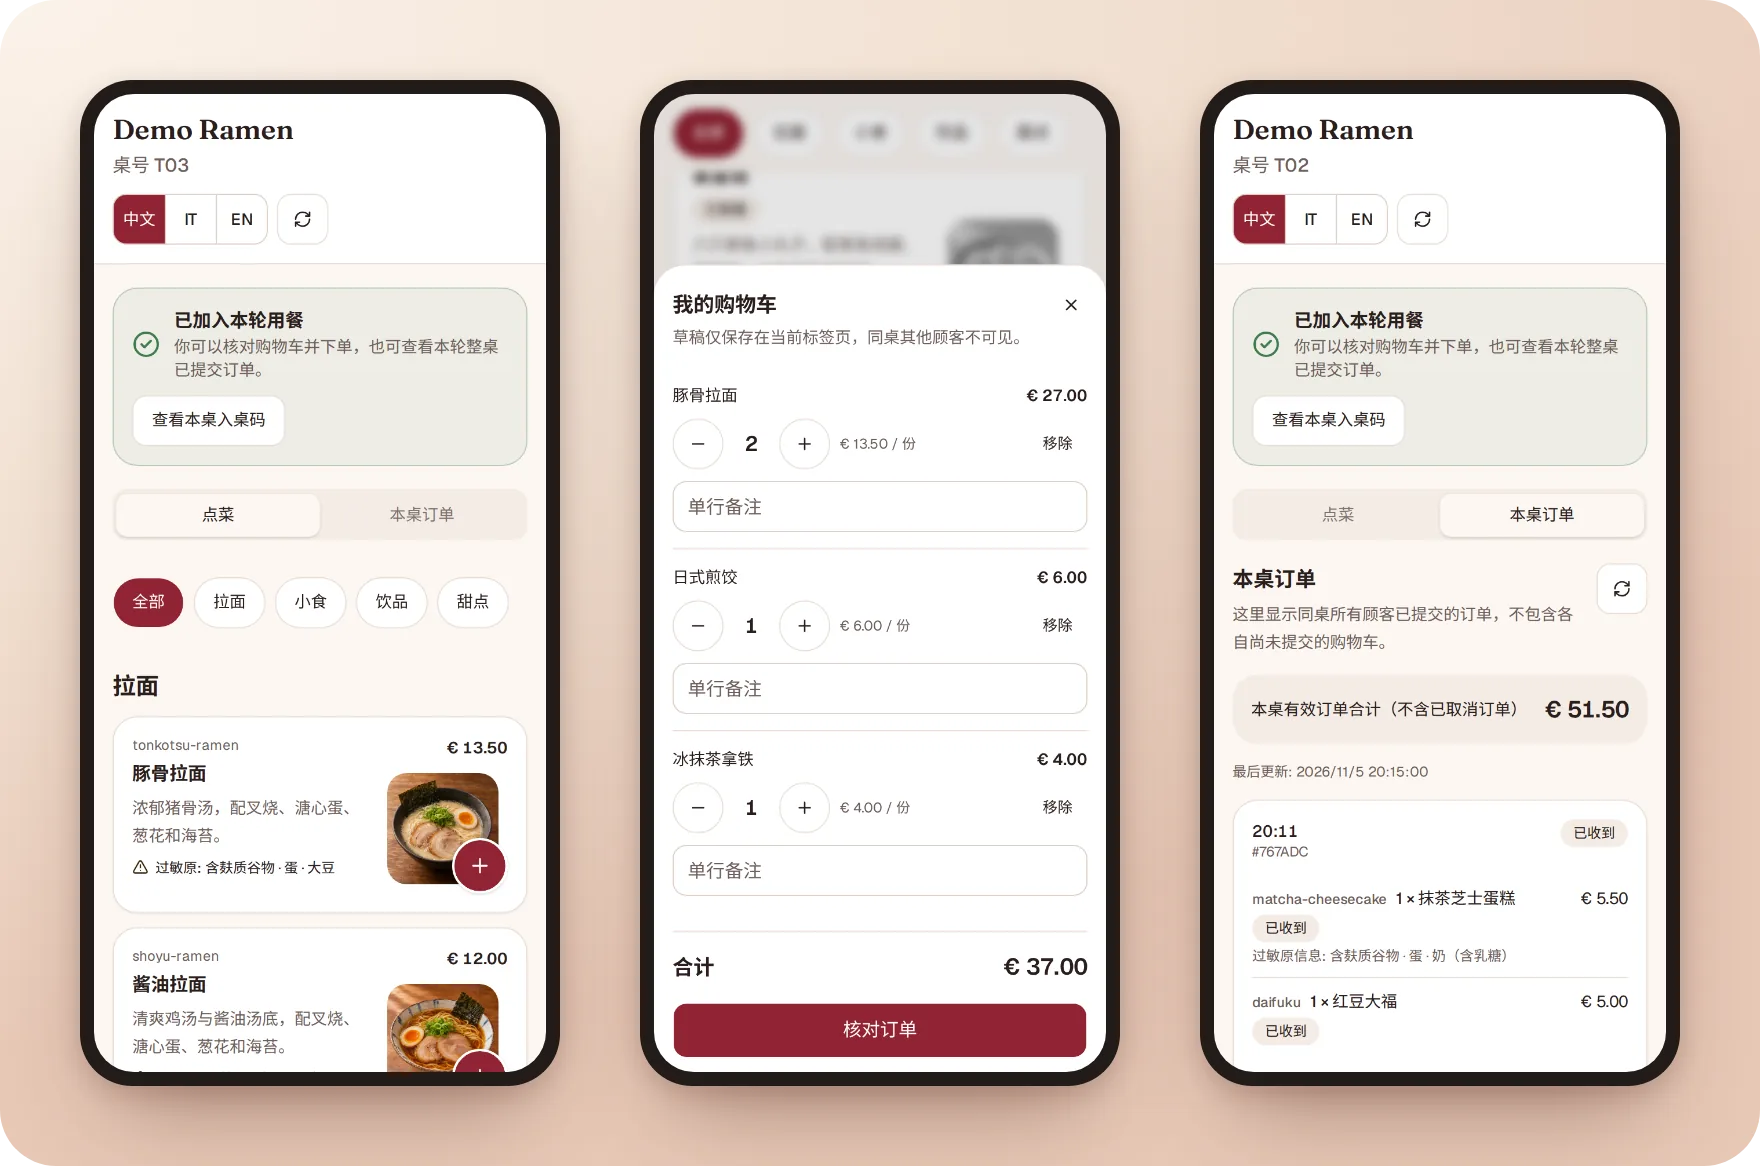
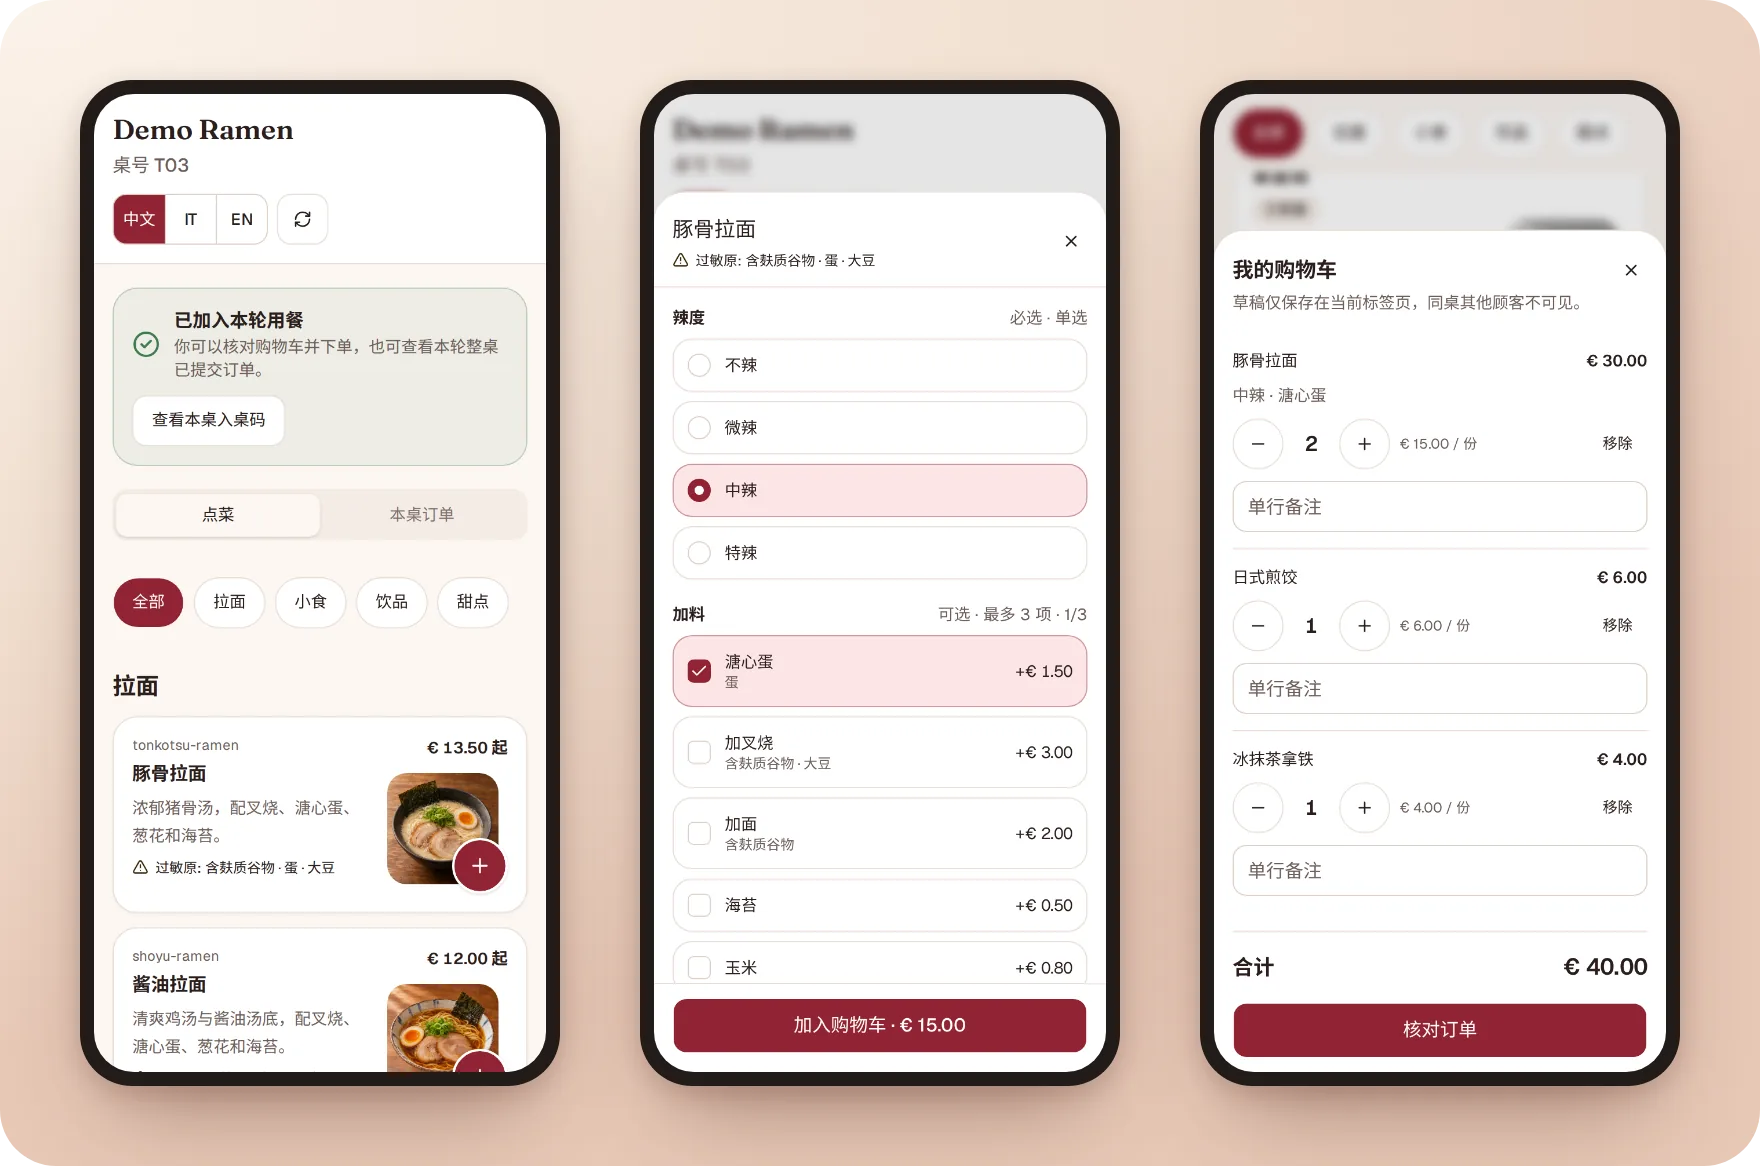
docs: readme images and captions with menu options

diff --git a/README.it.md b/README.it.md
@@ -42,9 +42,9 @@ cucina, pass e conto.
 
 ![Una visita completa: apertura del tavolo, ordine dal telefono, cucina, pass e conto](docs/images/walkthrough-it.webp)
 
-**Clienti**: il menu con foto e allergeni, il carrello e gli ordini del tavolo.
+**Clienti**: il menu con foto e allergeni, le opzioni di un piatto (qui piccantezza e aggiunte) e il carrello.
 
-![Menu, carrello e ordini del tavolo su un telefono](docs/images/guest-it.webp)
+![Menu, opzioni del piatto e carrello su un telefono](docs/images/guest-it.webp)
 
 **Staff e titolare**: Sala, Pass, Conto e modifica di un piatto su un tablet.
 

diff --git a/README.md b/README.md
@@ -41,9 +41,9 @@ kitchen, the pass and the bill.
 
 ![A whole visit: open the table, order from the phone, kitchen, pass and bill](docs/images/walkthrough-en.webp)
 
-**Guests**: the menu with photos and allergens, the cart, and the table's orders.
+**Guests**: the menu with photos and allergens, the options of a dish (here spice level and extras), and the cart.
 
-![Guest menu, cart and table orders on a phone](docs/images/guest-en.webp)
+![Guest menu, option picker and cart on a phone](docs/images/guest-en.webp)
 
 **Staff and owner**: Floor, Pass, Bill and dish editing on a tablet.
 

diff --git a/README.zh-CN.md b/README.zh-CN.md
@@ -35,9 +35,9 @@
 
 ![一轮完整的用餐：开桌、手机点菜、厨房、传菜和结账](docs/images/walkthrough-zh.webp)
 
-**顾客**：带照片和过敏原的菜单、购物车和本桌订单。
+**顾客**：带照片和过敏原的菜单、菜品选项（这里是辣度和加料）和购物车。
 
-![手机上的菜单、购物车和本桌订单](docs/images/guest-zh.webp)
+![手机上的菜单、选项面板和购物车](docs/images/guest-zh.webp)
 
 **员工和店主**：平板上的桌台、传菜、结账和菜品编辑页面。
 
